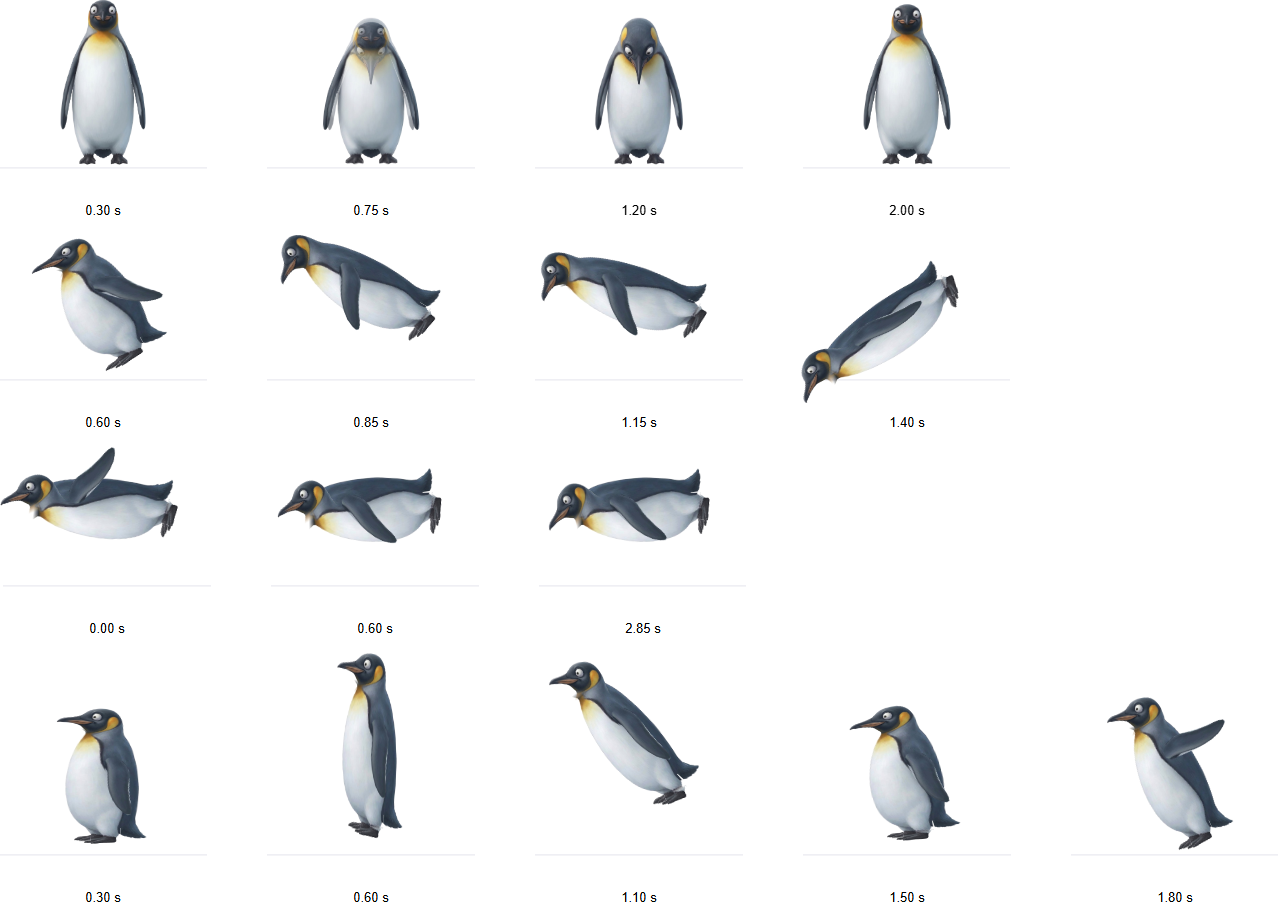
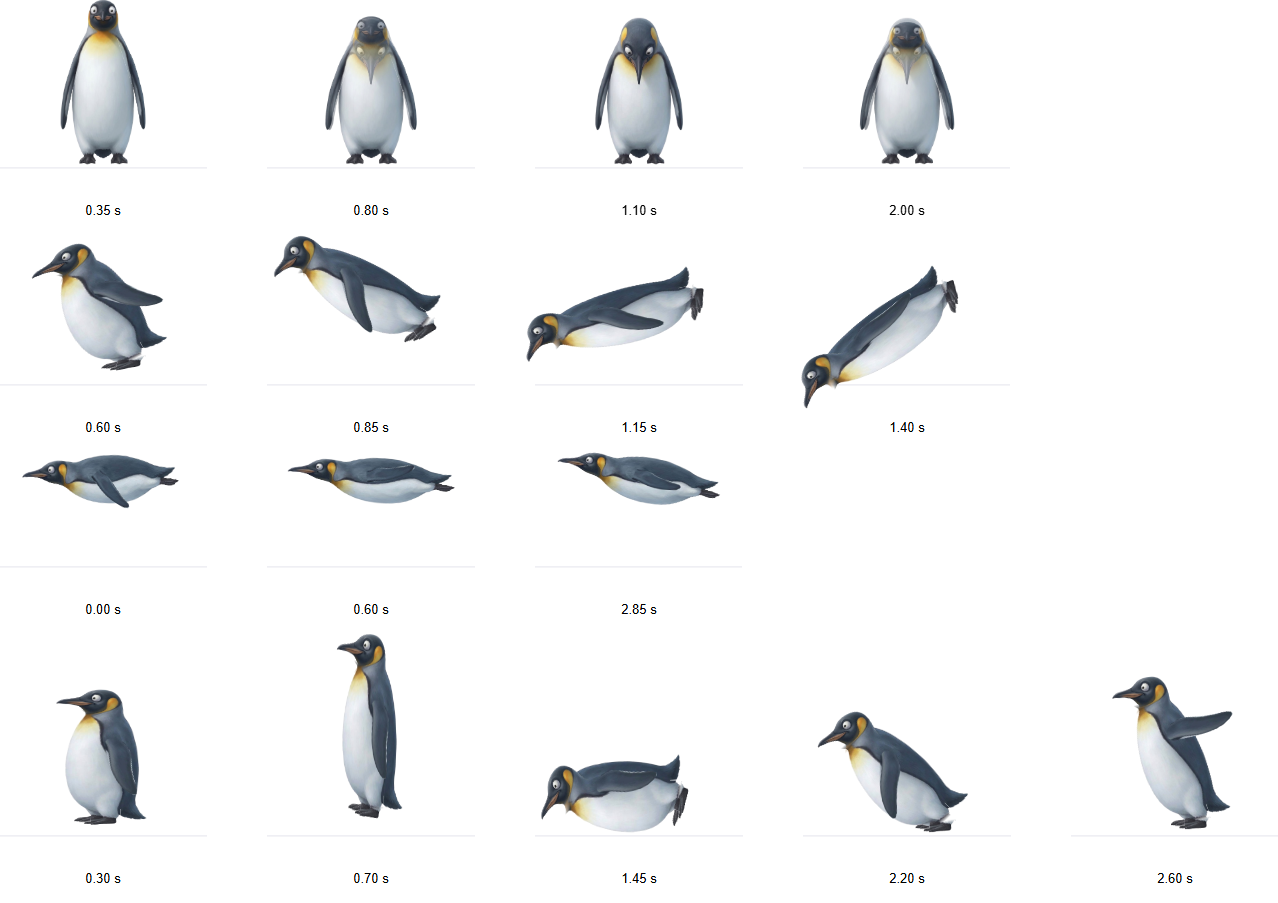
docs: record rounds two and three in the making-of, and Raymond's approval

diff --git a/openspec/changes/kalman-animation-feel/tasks.md b/openspec/changes/kalman-animation-feel/tasks.md
@@ -32,12 +32,12 @@
 ## 5. The new poses and animations, tuned with Raymond
 
 - [x] 5.1 Add the poses and keyframes of design §10 to `poses.json` and `animations.json` (bow with `drawn: "bow"`; dive with lean, crouch, hop and face-first entry; horizontal swim with surge, drift and glance; launch with wind-up, rise, flight, landing, wobble and recovery; idle unchanged); verify the data tests pass, plus unit tests against the repo data for every scenario of "The bow is a deep, polite bow", "The dive moves like a dive", "The swim moves like a stroke" and "The launch is professional, the landing goofy"
-- [ ] 5.2 Tune the bow with Raymond in the preview (depth, the moment of the cross-fade, the hold, the settle); verify Raymond approves the bow and the tests of 5.1 still pass
-- [ ] 5.3 Tune the dive with Raymond (lean, crouch, hop, flailing flippers, face-first entry, trailing); verify Raymond approves the dive and the tests of 5.1 still pass
-- [ ] 5.4 Tune the swim with Raymond (horizontal glide, surge, drift, the glance at a fish, loop without a jump); verify Raymond approves the swim and the tests of 5.1 still pass
-- [ ] 5.5 Tune the launch with Raymond (wind-up, rocket rise, flight, landing, wobble, recovery); verify Raymond approves the launch and the tests of 5.1 still pass
+- [x] 5.2 Tune the bow with Raymond in the preview (depth, the moment of the cross-fade, the hold, the settle); verify Raymond approves the bow and the tests of 5.1 still pass
+- [x] 5.3 Tune the dive with Raymond (lean, crouch, hop, flailing flippers, face-first entry, trailing); verify Raymond approves the dive and the tests of 5.1 still pass
+- [x] 5.4 Tune the swim with Raymond (horizontal glide, surge, drift, the glance at a fish, loop without a jump); verify Raymond approves the swim and the tests of 5.1 still pass
+- [x] 5.5 Tune the launch with Raymond (wind-up, rocket rise, flight, landing, wobble, recovery); verify Raymond approves the launch and the tests of 5.1 still pass
 - [x] 5.6 Update the snapshots of key moments (bow halfway through the cross-fade and at the drawn bow, the dive's crouch and entry, the swim at the end of the down stroke, the launch rising, landing and wobbling) and make the baselines with "Update visual baselines"; verify the images look right and the `visual` project passes in CI
-- [ ] 5.7 Log the chosen values in `PLANNING_LOG.md` and record the session in `docs/making-of.md` (what made it look static, the references in words, the animation principles, before/after screenshots of Kálmán only); verify the files are updated
+- [x] 5.7 Log the chosen values in `PLANNING_LOG.md` and record the session in `docs/making-of.md` (what made it look static, the references in words, the animation principles, before/after screenshots of Kálmán only); verify the files are updated
 
 ## 6. Eyes that follow the pointer
 
@@ -52,21 +52,21 @@
 
 - [x] 7.1 Add `plant` to `LayerPose` and to `resolvePose()` (a planted layer mixed between following its parent and staying at rest, design §12), blended in `blendPoses()` and validated as 0–1; verify with unit tests for "Crouching on planted feet" and "Feet that leave the ground", and that a foot's own rotation still applies
 - [x] 7.2 Use planted feet in the dive's crouch and push-off, the launch's wind-up and stand-up, and the bow; verify with the scenario tests of 5.1 (updated) and film strips
-- [ ] 7.3 Make the bow fold smoothly (shorter head on the way down, `fade` 0.5 s, earlier and overlapping cross-fade, `sine.inOut`); verify with the updated "On the way down" test and a film strip, and Raymond approves the bow
-- [ ] 7.4 Let the body turn along during head-follow (a fraction of the head's angle, slower) and reduce the head's own turn; verify with unit tests for the body's share and an e2e test that the body leans with the pointer, and Raymond approves
-- [ ] 7.5 Replace the launch's landing with the belly landing, slide and stand-up on planted feet; verify with the scenario tests "Landing on his belly" and "Standing up", a film strip, and Raymond approves
+- [x] 7.3 Make the bow fold smoothly (shorter head on the way down, `fade` 0.5 s, earlier and overlapping cross-fade, `sine.inOut`); verify with the updated "On the way down" test and a film strip, and Raymond approves the bow
+- [x] 7.4 Let the body turn along during head-follow (a fraction of the head's angle, slower) and reduce the head's own turn; verify with unit tests for the body's share and an e2e test that the body leans with the pointer, and Raymond approves
+- [x] 7.5 Replace the launch's landing with the belly landing, slide and stand-up on planted feet; verify with the scenario tests "Landing on his belly" and "Standing up", a film strip, and Raymond approves
 
 ## 8. The drawn swim figure
 
 - [x] 8.1 Add prompts 11–13 (swimming, goofy; its professional edit; without the near flipper) to `docs/kalman-layers.md`; verify the prompts name `swim-goofy.png`, `swim-professional.png` and `swim-no-flipper.png`
 - [x] 8.2 Check Raymond's three swim images (same size, lined up, white background) and save them; verify with the alignment check and a side-by-side
 - [x] 8.3 Add the `swim` figure (`Figure`, `FIGURES`, rigs, poses, the figure switch and the player) and cut its rig in `scripts/cut-kalman-layers.ts` (body from the edit without the flipper, flipper along a traced outline, tie and glasses); verify `cut:kalman`, `check:kalman`, the data test for its four layers, and "A stroking flipper" in a screenshot
-- [ ] 8.4 Move the swim animation to the swimming figure with its own poses (body pitch, flipper strokes with lag, a glance by tipping the body); verify with the updated swim scenario tests, the e2e test "Showing the swimming figure", and Raymond approves the swim
+- [x] 8.4 Move the swim animation to the swimming figure with its own poses (body pitch, flipper strokes with lag, a glance by tipping the body); verify with the updated swim scenario tests, the e2e test "Showing the swimming figure", and Raymond approves the swim
 
 ## 9. Wrap-up
 
 - [x] 9.1 Measure the preview's JavaScript with `npm run size`; verify it is still within the 50 KB budget and public pages are unchanged
-- [ ] 9.2 Run `npm run check` (with no dev server on port 4321) and let CI pass on the branch; verify everything is green and Raymond has judged all animations
+- [x] 9.2 Run `npm run check` (with no dev server on port 4321) and let CI pass on the branch; verify everything is green and Raymond has judged all animations
 
 ## Workflow follow-up
 

diff --git a/docs/making-of.md b/docs/making-of.md
@@ -219,3 +219,17 @@ Raymond gave the feeling of each animation (a polite butler's bow; a dive that i
 - **Tip the body, and the bill tips along.** Lying horizontally, his bill pointed at the floor. Turning the head back up to 70° makes him swim bill first.
 - **Film strips before the preview.** Rendering a row of frames of each animation (with the same maths the player uses) showed these problems before anyone had to watch them.
 
+### Second and third round: Raymond's eye
+
+Raymond tried each round in the preview, and every round found what still frames had hidden.
+
+- **Eyes that follow.** "Only the head moves": the pupils became their own layers, cut from two more Gemini edits without pupils, with a shift limit so they stay in the eye. They look first, then the head, then the body (overlap again).
+- **Knees.** Penguins stand on bent knees hidden inside the body. A pose can plant the feet: they move with the body but never go into the ground, and stay level when he leans. The first version kept the feet where they stood at rest, and they came loose as soon as he leaned.
+- **A drawn swimming figure.** Tipping the side figure to swim bent its neck awkwardly; Raymond drew Kálmán as a torpedo, and that became a third figure with its own flipper.
+- **A belly landing** after the launch, as in the nature stills: land, slide, push up, wobble, stand.
+- **Smooth curves instead of pieces.** "Woody": every piece between two poses eased to a stop, so he paused at each pose mid-movement. Now every value follows one monotone curve through all its poses and only slows where a movement turns around.
+- **Strict tests find real bugs.** Tightening a test I had loosened showed his belly sank 40 units into the ice at the landing.
+- **Linux isn't Windows.** In CI, "Swimming" stuck out 6 px on a 360 px phone because Linux fonts are a little wider; the figure options now wrap.
+
+Raymond approved the result. The agreement that he must be able to explain every line was dropped along the way: the highest quality and user experience come first.
+

diff --git a/PLANNING_LOG.md b/PLANNING_LOG.md
@@ -110,3 +110,4 @@ Append-only: one line per decision. Never rewrite an earlier line.
 - 2026-10-27 — The swimming figure is cut from Raymond's three swim images (body with head, feet and tail in one piece; flipper along a traced outline; tie and glasses), placed in the middle of the stage at the same scale, and the swim animation uses it: the body pitches a few degrees with the strokes, the flipper trails by 0.06 s, and a glance tips the body 10°. Decided by: Claude (from Raymond's images; to be judged by Raymond).
 - 2026-10-27 — The dive and the launch move smoothly through their keyframes (`smooth: true`: a monotone cubic curve, slowing only where a movement turns around), with more lag on the head (0.07 s) and the tail (0.16 s) for a more flexible body. Raymond found them wooden: they paused at every keyframe. Decided by: Raymond (proposed by Claude).
 - 2026-10-27 — The agreement that Raymond must be able to understand and explain every line is dropped: the highest quality and user experience come first (README §5.4, CLAUDE.md). No code walkthrough for kalman-animation-feel. Decided by: Raymond.
+- 2026-10-27 — The animations of kalman-animation-feel are approved as built: bow 2.5 s (drawn bow, fade 0.4 s), dive 2.2 s, swim loop 3.6 s on the swimming figure, launch 3.4 s with the belly landing, all smooth; lags in animations.json (head 0.05–0.07 s, flippers 0.06–0.08 s, feet 0.1 s, tail 0.16 s). Decided by: Raymond.
